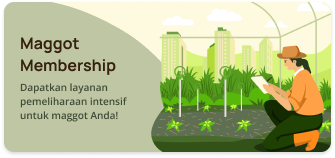
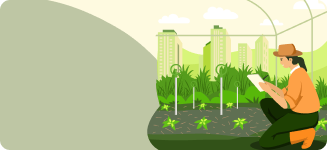
feat: modify membership screen & add profile routing

diff --git a/lib/screens/maggot/about_maggot_screen.dart b/lib/screens/maggot/about_maggot_screen.dart
@@ -1,5 +1,6 @@
 import 'package:flutter/material.dart';
 import 'package:hejokeun/screens/maggot/maggot_indonesia_screen.dart';
+import 'package:hejokeun/screens/maggot/membership/membership_screen.dart';
 import 'package:hejokeun/utils/constants.dart';
 
 class AboutMaggotScreen extends StatelessWidget {
@@ -69,10 +70,43 @@ class AboutMaggotScreen extends StatelessWidget {
                       textAlign: TextAlign.justify,
                     ),
                     const SizedBox(height: 20),
-                    Image.asset(
-                      'assets/images/maggot_membership.png',
-                      width: MediaQuery.of(context).size.width,
-                      fit: BoxFit.contain,
+                    InkWell(
+                      onTap: () {
+                        Navigator.pushNamed(context, MembershipScreen.id);
+                      },
+                      child: Stack(
+                        children: [
+                          Image.asset(
+                            'assets/images/maggot_membership.png',
+                            width: MediaQuery.of(context).size.width,
+                            fit: BoxFit.contain,
+                          ),
+                          Positioned(
+                            top: 0,
+                            bottom: 0,
+                            left: 0,
+                            right: 0,
+                            child: Padding(
+                              padding: const EdgeInsets.symmetric(
+                                  horizontal: 16, vertical: 30),
+                              child: Column(
+                                crossAxisAlignment: CrossAxisAlignment.start,
+                                children: [
+                                  Text(
+                                    'Maggot\nMembership',
+                                    style: kH6.copyWith(color: kDarkBrown),
+                                  ),
+                                  const SizedBox(height: 4),
+                                  Text(
+                                    'Dapatkan layanan\npemeliharaan intensif\nuntuk maggot Anda!',
+                                    style: kBS5.copyWith(color: kAG0),
+                                  ),
+                                ],
+                              ),
+                            ),
+                          ),
+                        ],
+                      ),
                     ),
                     const SizedBox(height: 20),
                     Text(
@@ -85,8 +119,8 @@ class AboutMaggotScreen extends StatelessWidget {
                       clipBehavior: Clip.none,
                       child: Row(
                         children: [
-                          TextButton(
-                            onPressed: () {
+                          InkWell(
+                            onTap: () {
                               Navigator.pushNamed(
                                   context, MaggotIndonesiaScreen.id);
                             },
@@ -125,8 +159,8 @@ class AboutMaggotScreen extends StatelessWidget {
                             ),
                           ),
                           const SizedBox(width: 16),
-                          TextButton(
-                            onPressed: () {},
+                          InkWell(
+                            onTap: () {},
                             child: Container(
                               decoration: BoxDecoration(
                                 color: Colors.white,

diff --git a/lib/main.dart b/lib/main.dart
@@ -1,17 +1,12 @@
 import 'package:firebase_core/firebase_core.dart';
 import 'package:flutter/material.dart';
-import 'package:hejokeun/auth.dart';
-import 'package:hejokeun/screens/auth/terms_and_condition_screen.dart';
-import 'package:hejokeun/screens/maggot/membership/membership_screen.dart';
-import 'package:hejokeun/screens/profile/profile_screen.dart';
-import 'package:hejokeun/utils/profile.dart';
-import 'package:hejokeun/provider/cart_provider.dart';
-import 'package:hejokeun/screens/katalog_penukaran/detail_pengambilan_screen.dart';
-import 'package:hejokeun/screens/katalog_penukaran/katalog_penukaran_screen.dart';
-import 'package:hejokeun/screens/statistik/statistik_screen.dart';
 import 'package:provider/provider.dart';
-import 'package:hejokeun/utils/transactions.dart';
 import 'firebase_options.dart';
+
+import 'package:hejokeun/auth.dart';
+import 'package:hejokeun/provider/cart_provider.dart';
+import 'package:hejokeun/utils/profile.dart';
+import 'package:hejokeun/utils/transactions.dart';
 import 'package:hejokeun/utils/notifications.dart';
 import 'package:hejokeun/utils/schedule_events.dart';
 
@@ -35,6 +30,12 @@ import 'package:hejokeun/screens/riwayat_transaksi/transaction_history_screen.da
 import 'package:hejokeun/screens/pengambilan_sampah/pengambilan_sampah_successful_screen.dart';
 import 'package:hejokeun/screens/pengambilan_sampah/request_pengambilan_sampah_screen.dart';
 import 'package:hejokeun/screens/maggot/about_maggot_screen.dart';
+import 'package:hejokeun/screens/auth/terms_and_condition_screen.dart';
+import 'package:hejokeun/screens/maggot/membership/membership_screen.dart';
+import 'package:hejokeun/screens/profile/profile_screen.dart';
+import 'package:hejokeun/screens/katalog_penukaran/detail_pengambilan_screen.dart';
+import 'package:hejokeun/screens/katalog_penukaran/katalog_penukaran_screen.dart';
+import 'package:hejokeun/screens/statistik/statistik_screen.dart';
 
 void main() async {
   WidgetsFlutterBinding.ensureInitialized();

diff --git a/lib/screens/maggot/membership/membership_screen.dart b/lib/screens/maggot/membership/membership_screen.dart
@@ -23,19 +23,10 @@ class MembershipScreen extends StatelessWidget {
       backgroundColor: kLG3,
       body: Stack(
         children: [
-          Column(
+          const Column(
             children: [
-              AppBar(
-                leading: BackButton(
-                  onPressed: () {
-                    Navigator.pushNamed(context, MainScreen.id);
-                  },
-                  color: kDarkBrown,
-                ),
-                backgroundColor: kLG3,
-              ),
-              const SizedBox(height: 18),
-              const TopScreenImage(
+              SizedBox(height: 18),
+              TopScreenImage(
                 screenImageName: 'membership.png',
                 width: 303,
                 height: 226.43,

diff --git a/lib/screens/main_screen.dart b/lib/screens/main_screen.dart
@@ -2,6 +2,7 @@ import 'package:firebase_auth/firebase_auth.dart';
 import 'package:flutter/material.dart';
 import 'package:hejokeun/screens/home_screen.dart';
 import 'package:hejokeun/screens/pengambilan_sampah/pengambilan_sampah_screen.dart';
+import 'package:hejokeun/screens/profile/profile_screen.dart';
 import 'package:hejokeun/screens/riwayat_transaksi/transaction_history_screen.dart';
 import 'package:hejokeun/utils/constants.dart';
 
@@ -20,7 +21,7 @@ class _MainScreenState extends State<MainScreen> {
     HomeScreen(),
     PengambilanSampahScreen(),
     TransactionHistoryScreen(),
-    Text('Akun Saya'),
+    ProfileScreen(),
   ];
 
   @override
